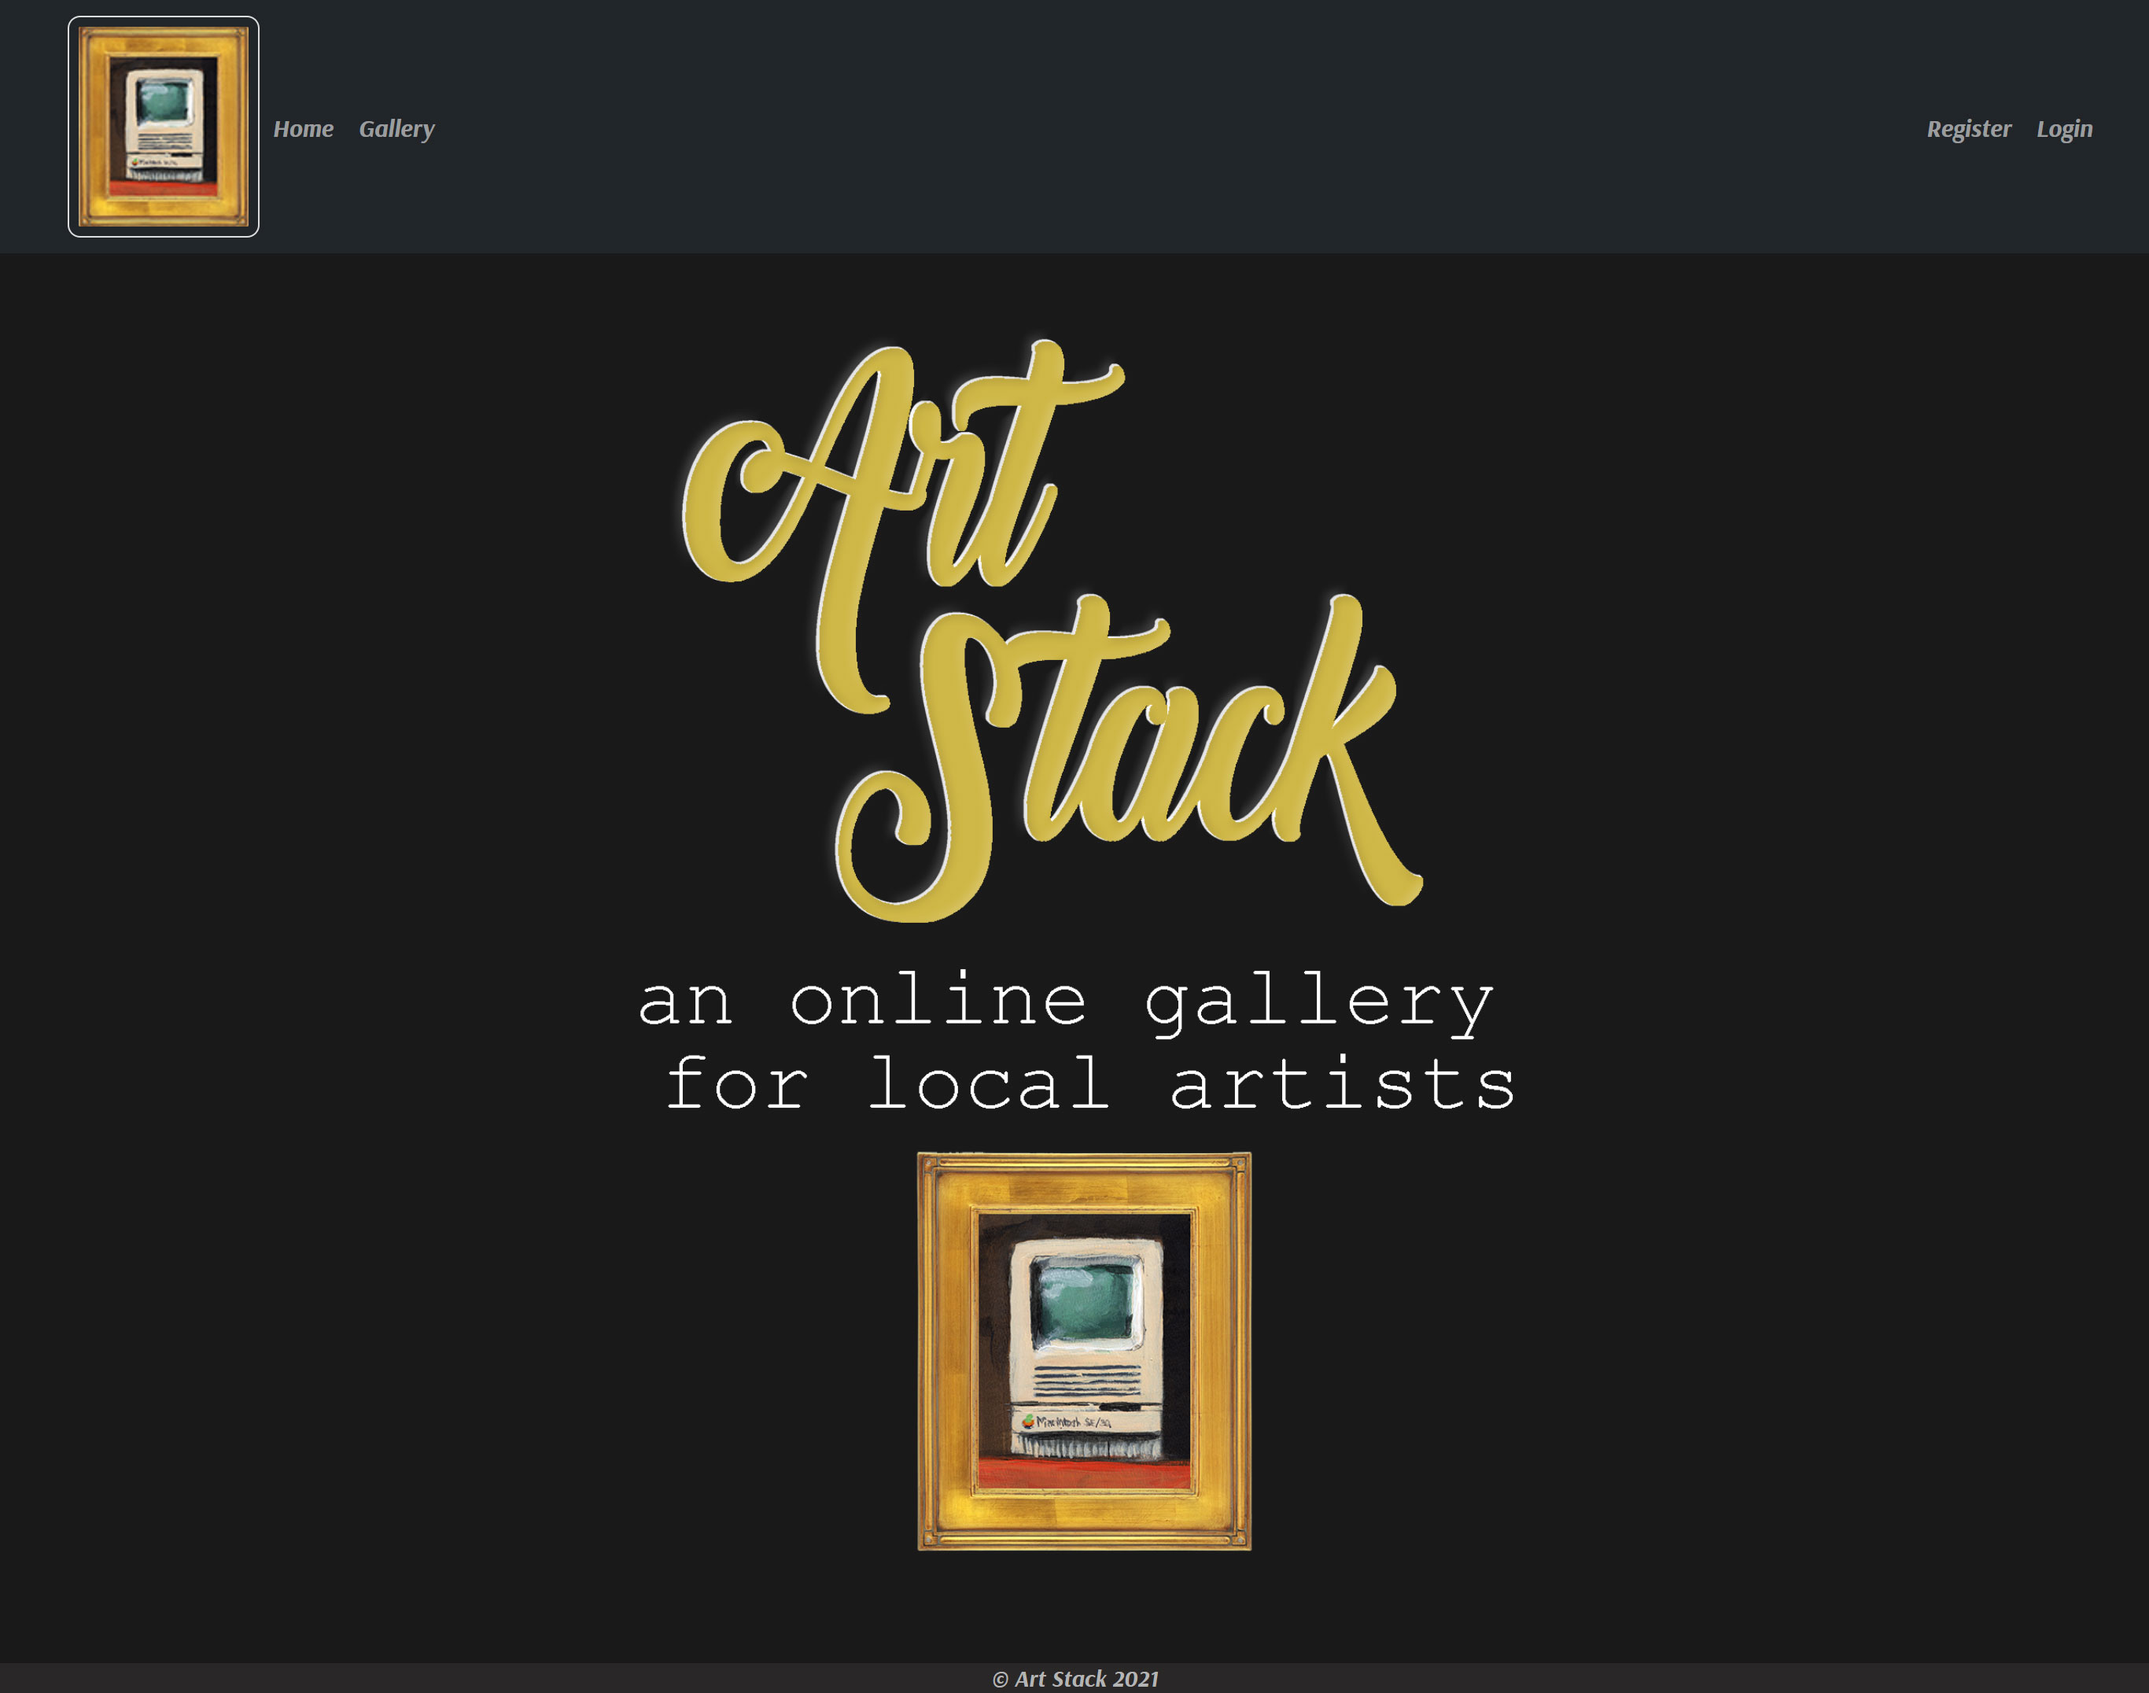
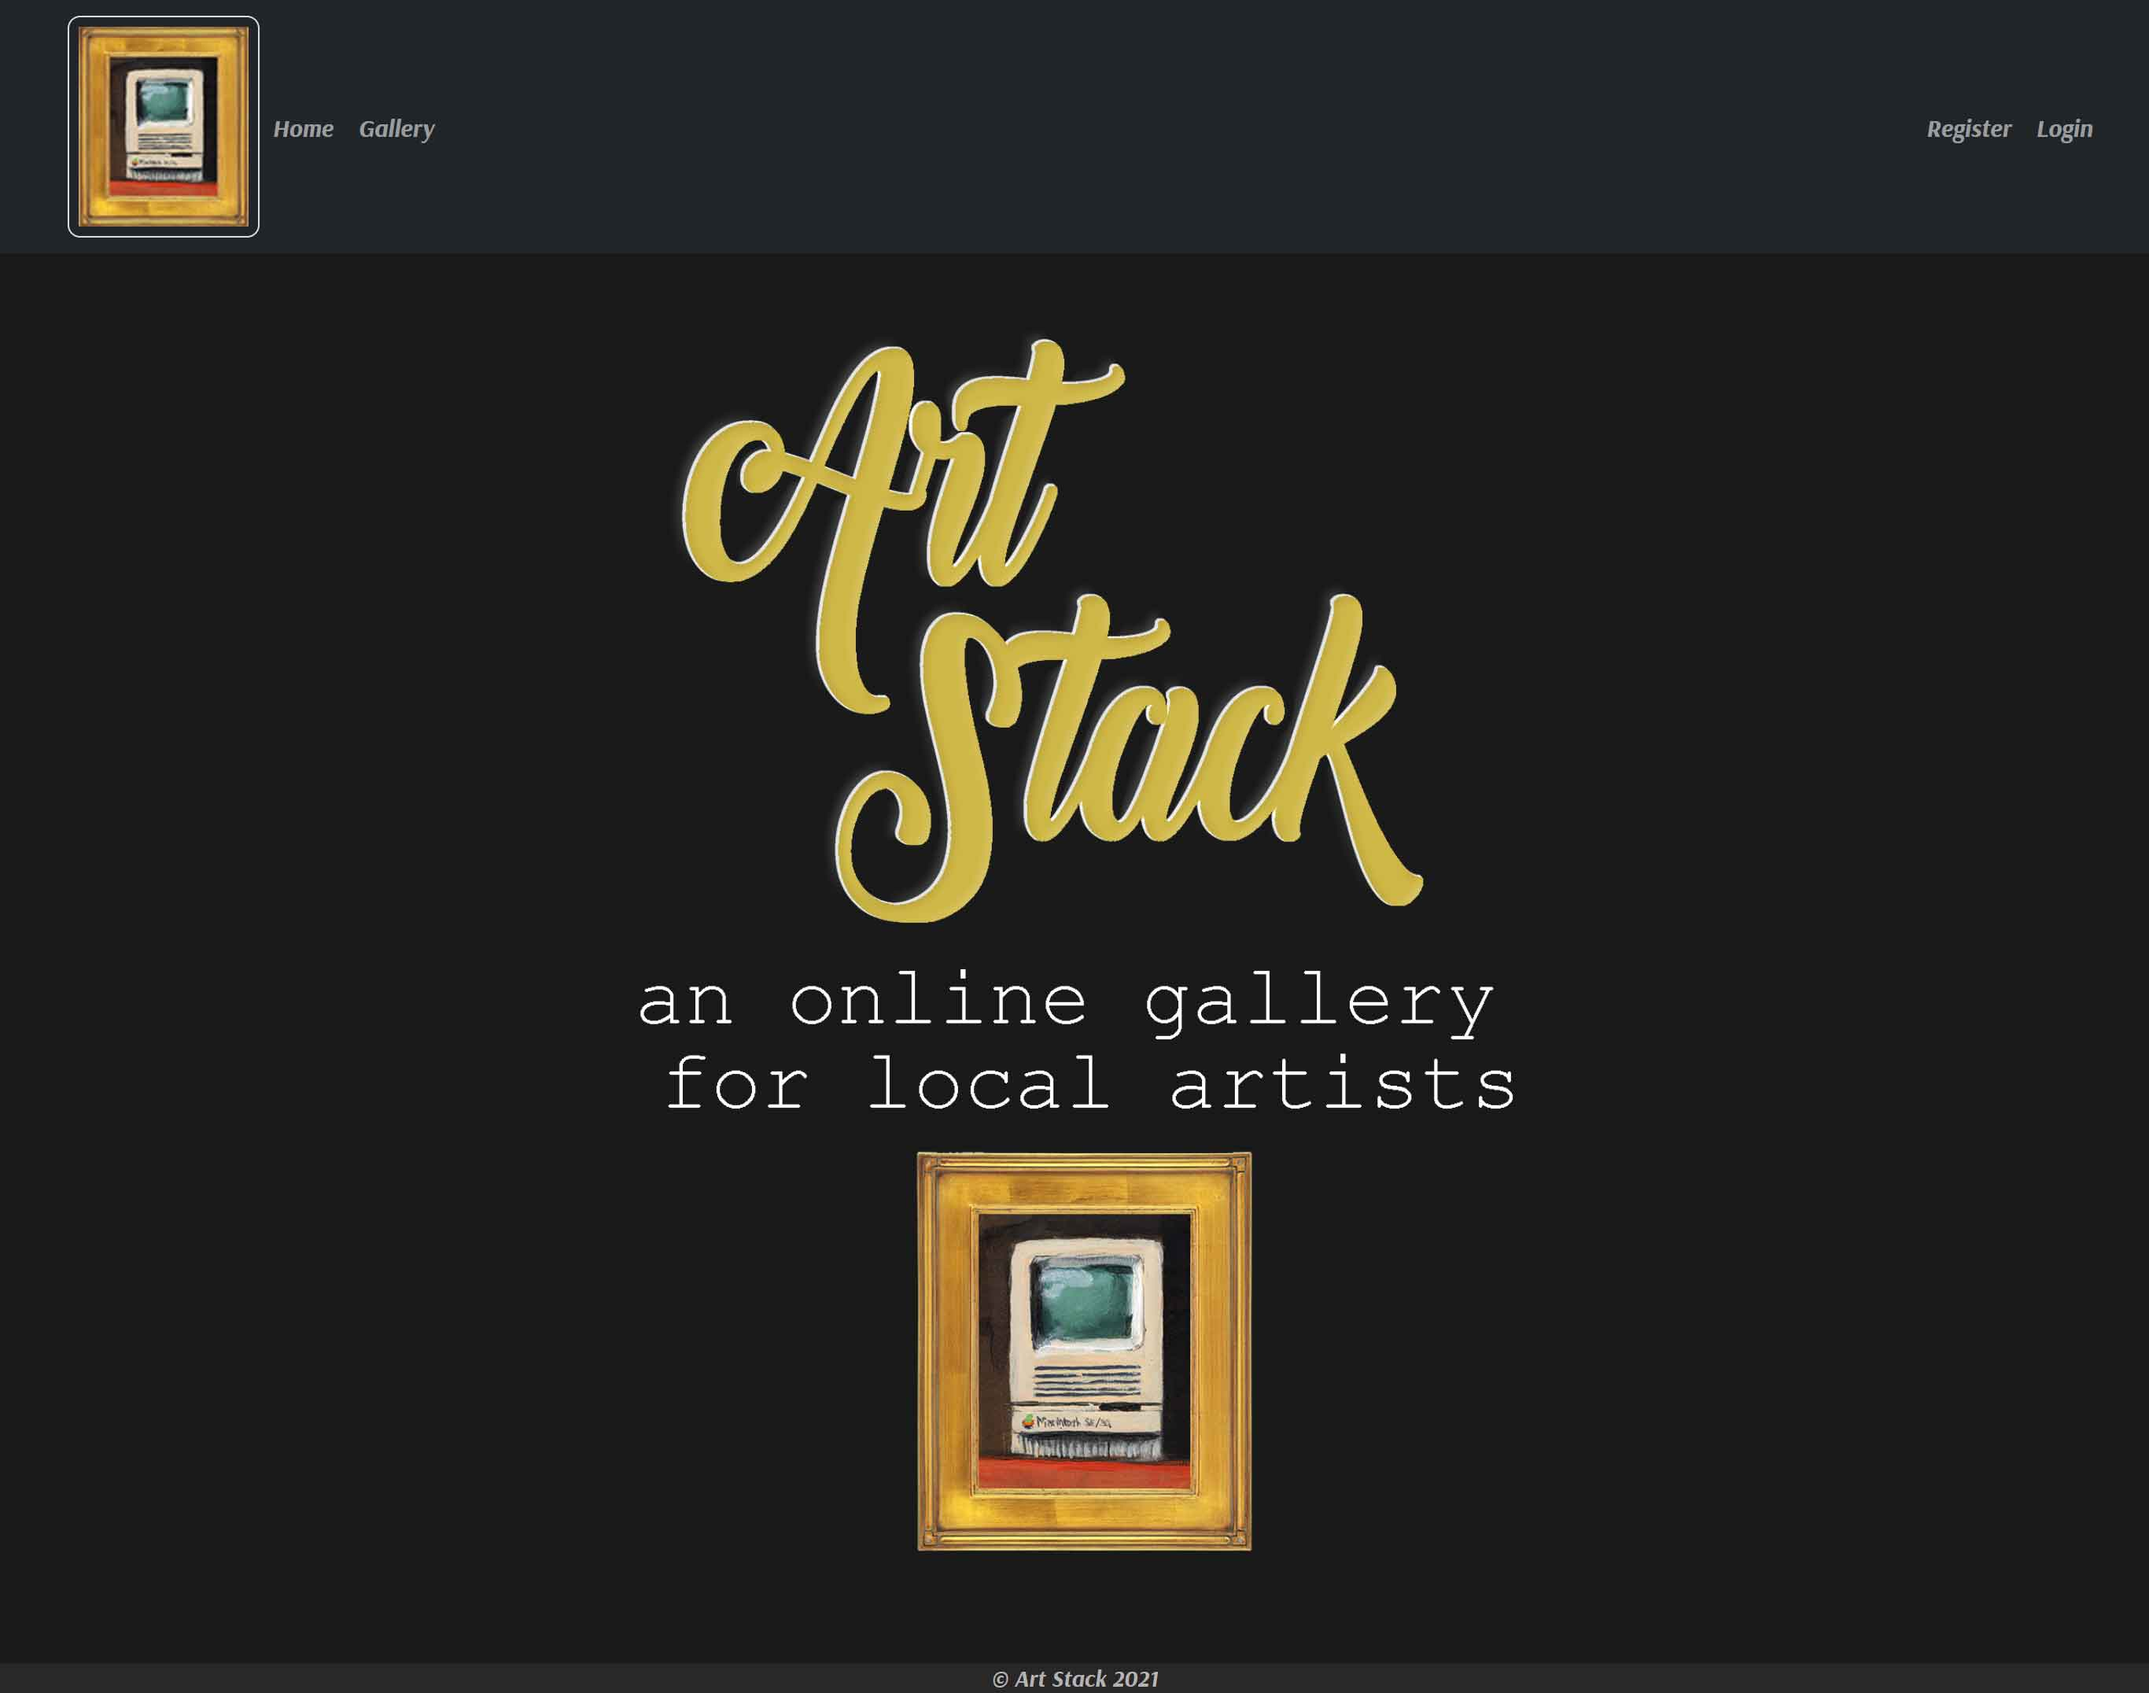
Compressed background

Changed region(s): [[0.5289, 0.467, 0.56, 0.4981]]

diff --git a/assets/css/style.css b/assets/css/style.css
@@ -1,5 +1,5 @@
 html {
-    background: url(../images/Abstract\ BG.jpg) no-repeat center center fixed;
+    background: url(../images/Abstract-BG.jpg) no-repeat center center fixed;
     -webkit-background-size: cover;
     -moz-background-size: cover;
     -o-background-size: cover;
